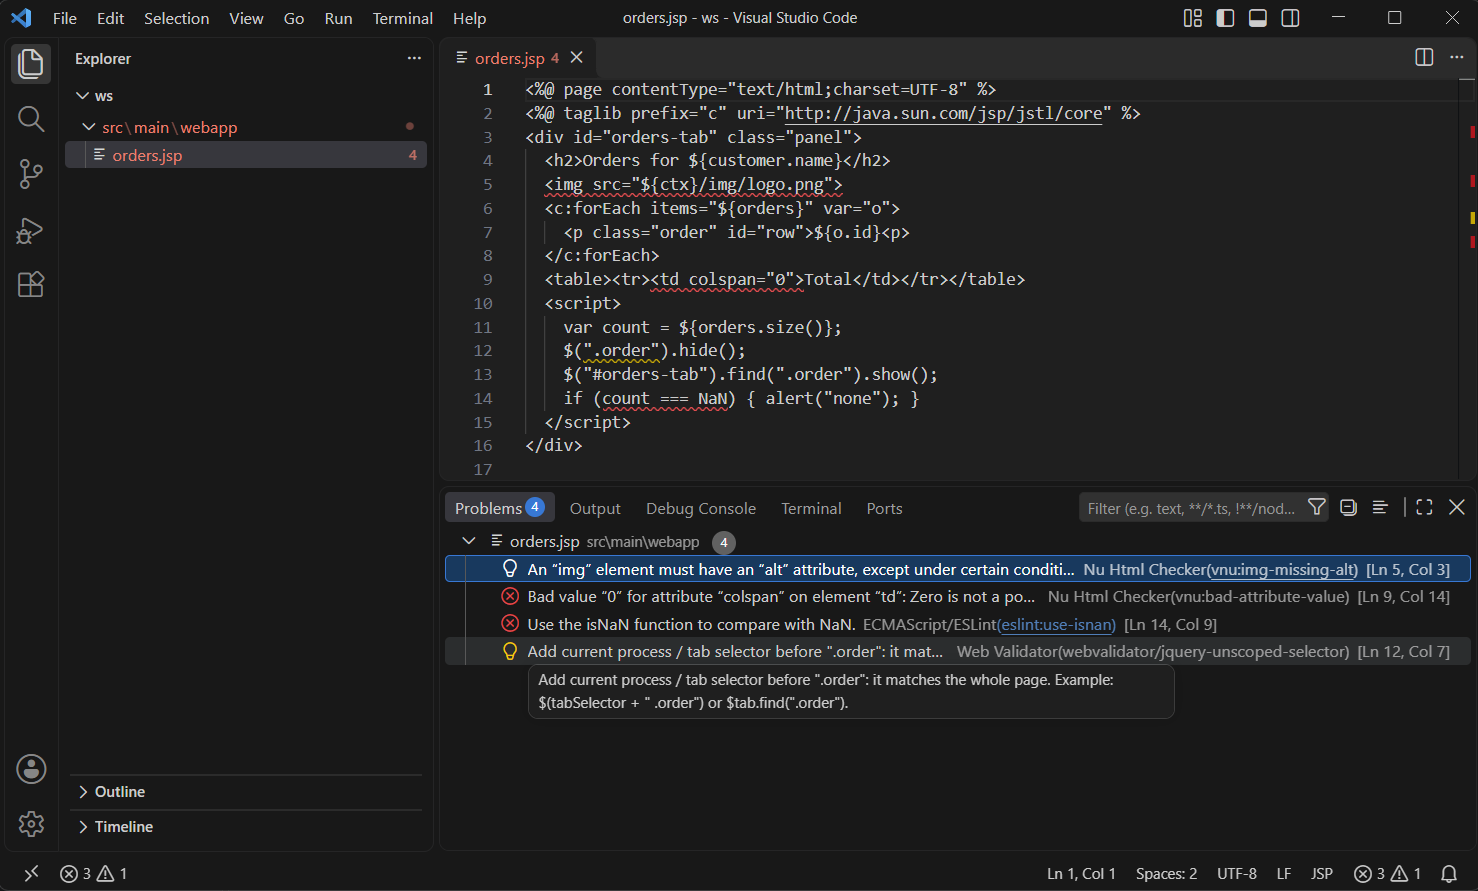
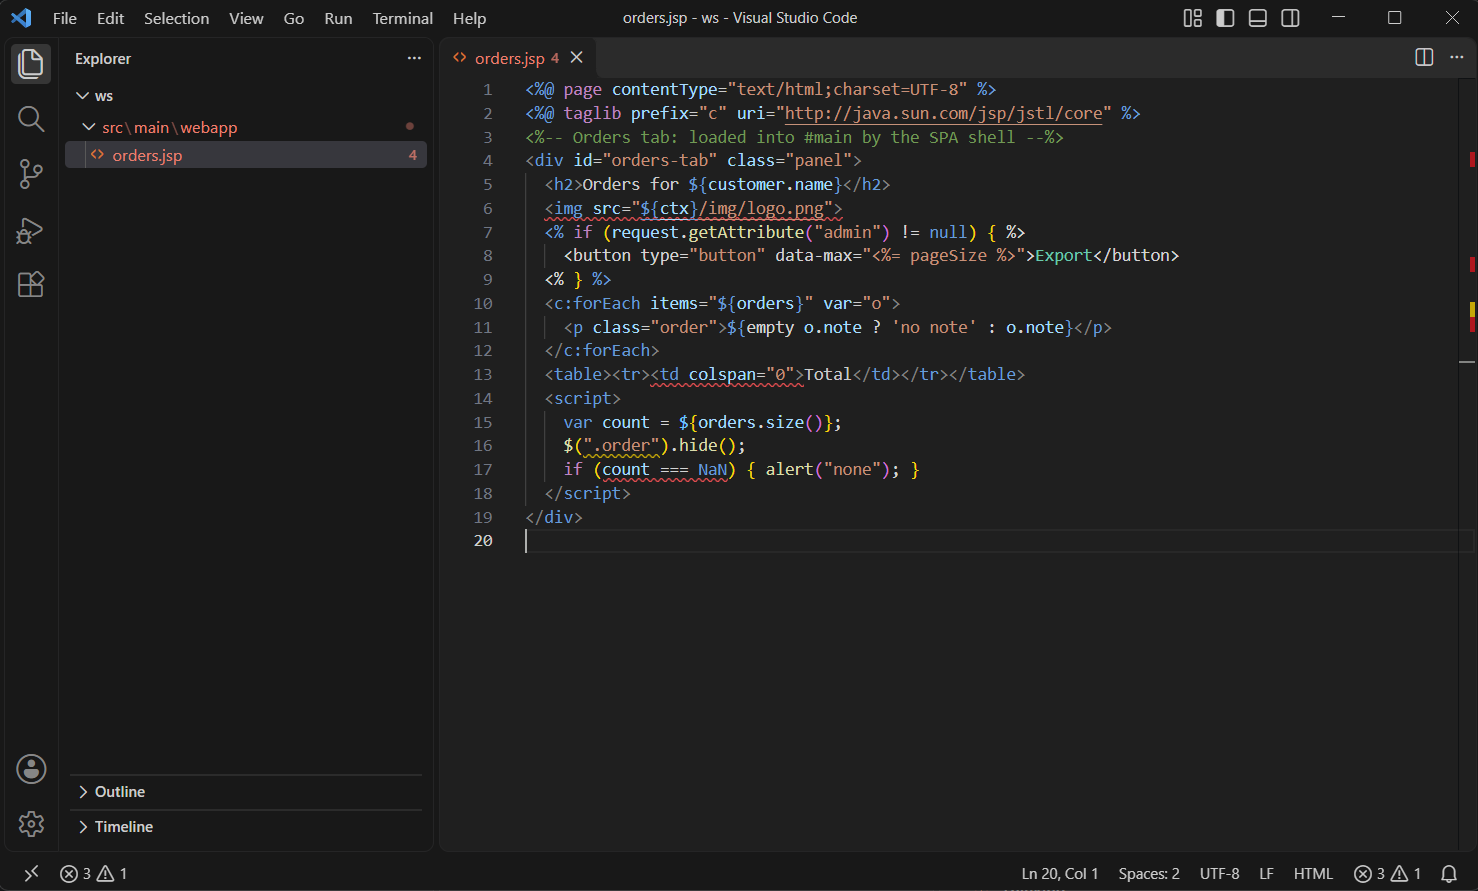
0.1.1: keep JSP files as HTML and add JSP colouring
0.1.0 registered .jsp/.jspf/.tag as a jsp language with no grammar, which
turned JSP files into plain text and switched off VS Code's HTML features.

- .jsp/.jspf stay in the built-in html language; .tag is no longer claimed
- Injection grammars colour JSP directives, comments, scriptlets/expressions
  (as Java) and ${...}/#{...} EL on top of the HTML colours
- webValidator.languages still treats JSP files as jsp
- Tests for the grammars (unit) and real tokenization (integration)
- README: JSP colours, html.validate.scripts tip, new screenshot

diff --git a/test/integration/suite/jspColors.test.ts b/test/integration/suite/jspColors.test.ts
@@ -1,0 +1,104 @@
+import * as assert from "node:assert/strict";
+import * as fs from "node:fs";
+import * as path from "node:path";
+import * as vscode from "vscode";
+
+/** A token as returned by VS Code's internal `_workbench.captureSyntaxTokens` command. */
+interface Token {
+  c: string;
+  t: string;
+}
+
+const root = (): string => {
+  const folder = vscode.workspace.workspaceFolders?.[0];
+  assert.ok(folder, "fixture workspace must be open");
+  return folder.uri.fsPath;
+};
+
+const created: string[] = [];
+function write(name: string, text: string): vscode.Uri {
+  const file = path.join(root(), name);
+  fs.writeFileSync(file, text);
+  created.push(file);
+  return vscode.Uri.file(file);
+}
+
+async function tokens(uri: vscode.Uri): Promise<Token[]> {
+  const doc = await vscode.workspace.openTextDocument(uri);
+  await vscode.window.showTextDocument(doc);
+  const result = await vscode.commands.executeCommand<Token[]>("_workbench.captureSyntaxTokens", uri);
+  assert.ok(Array.isArray(result) && result.length > 0, "syntax tokens were captured");
+  return result;
+}
+
+/** Scopes of the first token whose text is exactly `text`. */
+function scopesOf(ts: Token[], text: string): string {
+  const t = ts.find((x) => x.c === text);
+  assert.ok(t, `token "${text}" exists; tokens: ${JSON.stringify(ts.map((x) => x.c))}`);
+  return t.t;
+}
+
+describe("JSP colouring", () => {
+  after(async () => {
+    await vscode.commands.executeCommand("workbench.action.closeAllEditors");
+    for (const f of created) fs.rmSync(f, { force: true });
+  });
+
+  it("opens .jsp and .jspf files as HTML", async () => {
+    for (const name of ["colors-a.jsp", "colors-b.jspf"]) {
+      const doc = await vscode.workspace.openTextDocument(write(name, "<p>hi</p>\n"));
+      assert.equal(doc.languageId, "html", name);
+    }
+  });
+
+  it("colours JSP tags, Java inside them, EL, and keeps HTML colours", async () => {
+    const uri = write(
+      "colors-c.jsp",
+      [
+        '<%@ page contentType="text/html" %>',
+        "<%-- hidden note --%>",
+        '<input value="<%= user.getName() %>" title="${order.total}">',
+        "<% if (admin) { %><b>Admin</b><% } %>",
+        "<p>${empty items ? 'none' : items}</p>",
+        "",
+      ].join("\n"),
+    );
+    const ts = await tokens(uri);
+
+    assert.match(scopesOf(ts, "<%@"), /punctuation\.section\.embedded\.begin\.jsp/);
+    assert.match(scopesOf(ts, "page"), /keyword\.control\.directive\.jsp/);
+    assert.match(scopesOf(ts, "contentType"), /entity\.other\.attribute-name\.jsp/);
+    assert.match(scopesOf(ts, " hidden note "), /comment\.block\.jsp/);
+    assert.match(scopesOf(ts, "<%="), /punctuation\.section\.embedded\.begin\.jsp/);
+    assert.match(scopesOf(ts, "if"), /source\.java/);
+    assert.match(scopesOf(ts, "if"), /keyword/);
+    assert.match(scopesOf(ts, "${"), /punctuation\.definition\.template-expression\.begin\.el/);
+    assert.match(scopesOf(ts, "empty"), /keyword\.operator\.word\.el/);
+    assert.match(scopesOf(ts, "total"), /variable\.other\.el/);
+    // Ordinary HTML is still coloured by the built-in HTML grammar.
+    assert.match(scopesOf(ts, "input"), /entity\.name\.tag/);
+    assert.match(scopesOf(ts, "Admin"), /text\.html/);
+  });
+
+  it("leaves JavaScript template literals in <script> alone", async () => {
+    const uri = write("colors-d.html", "<script>\nconst s = `Hi ${name}`;\n</script>\n");
+    const ts = await tokens(uri);
+    for (const t of ts) assert.doesNotMatch(t.t, /\.el\b|\.jsp\b/, `token "${t.c}" has no JSP scopes`);
+  });
+
+  it("validates a .jsp file as JSP only while 'jsp' is in webValidator.languages", async () => {
+    const config = vscode.workspace.getConfiguration("webValidator");
+    const uri = write("colors-e.jsp", '<%@ page contentType="text/html" %>\n<img src="${img}">\n');
+    const doc = await vscode.workspace.openTextDocument(uri);
+    try {
+      await config.update("languages", ["html", "javascript"], vscode.ConfigurationTarget.Global);
+      const api = vscode.extensions.all.find((e) => e.packageJSON.name === "w3c-validator-plus")!.exports as {
+        service: { validate(d: vscode.TextDocument, trigger: string): Promise<{ skipped?: string }> };
+      };
+      const outcome = await api.service.validate(doc, "manual");
+      assert.match(outcome.skipped ?? "", /Language 'jsp' is not in webValidator\.languages/);
+    } finally {
+      await config.update("languages", undefined, vscode.ConfigurationTarget.Global);
+    }
+  });
+});

diff --git a/test/unit/syntaxes.test.ts b/test/unit/syntaxes.test.ts
@@ -1,0 +1,59 @@
+import { existsSync, readFileSync } from "node:fs";
+import { join } from "node:path";
+import { describe, expect, it } from "vitest";
+
+const root = join(__dirname, "..", "..");
+const pkg = JSON.parse(readFileSync(join(root, "package.json"), "utf8")) as {
+  contributes: { grammars: { scopeName: string; path: string; injectTo?: string[] }[]; languages: { id: string; extensions?: string[] }[] };
+};
+
+function regexesIn(node: unknown, out: string[] = []): string[] {
+  if (Array.isArray(node)) node.forEach((n) => regexesIn(n, out));
+  else if (node && typeof node === "object") {
+    for (const [k, v] of Object.entries(node)) {
+      if ((k === "match" || k === "begin" || k === "end") && typeof v === "string") out.push(v);
+      else regexesIn(v, out);
+    }
+  }
+  return out;
+}
+
+describe("JSP grammars", () => {
+  it("does not claim .jsp as its own language (VS Code's HTML support keeps it)", () => {
+    const claimed = pkg.contributes.languages.flatMap((l) => l.extensions ?? []);
+    expect(claimed).not.toContain(".jsp");
+    expect(claimed).not.toContain(".tag");
+    expect(pkg.contributes.languages.find((l) => l.id === "jsp")).toBeUndefined();
+  });
+
+  for (const g of pkg.contributes.grammars) {
+    describe(g.path, () => {
+      const file = join(root, g.path);
+      it("exists and matches package.json", () => {
+        expect(existsSync(file)).toBe(true);
+        const grammar = JSON.parse(readFileSync(file, "utf8")) as { scopeName: string; injectionSelector?: string };
+        expect(grammar.scopeName).toBe(g.scopeName);
+        expect(grammar.injectionSelector).toMatch(/^L:text\.html\.derivative\b/);
+        expect(g.injectTo).toEqual(["text.html.derivative"]);
+      });
+
+      it("has regular expressions that compile", () => {
+        const grammar = JSON.parse(readFileSync(file, "utf8")) as unknown;
+        const res = regexesIn(grammar);
+        expect(res.length).toBeGreaterThan(3);
+        for (const re of res) expect(() => new RegExp(re), re).not.toThrow();
+      });
+    });
+  }
+
+  it("matches EL and JSP tags as intended", () => {
+    const el = JSON.parse(readFileSync(join(root, "syntaxes/jsp-el.injection.tmLanguage.json"), "utf8"));
+    const begin = new RegExp(el.repository.el.begin);
+    expect(begin.test("${order.total}")).toBe(true);
+    expect(begin.test("#{bean.value}")).toBe(true);
+    expect(begin.test("\\${literal}")).toBe(false);
+    const tags = JSON.parse(readFileSync(join(root, "syntaxes/jsp-tags.injection.tmLanguage.json"), "utf8"));
+    const m = new RegExp(tags.repository.directive.begin).exec('<%@ taglib prefix="c" %>');
+    expect(m?.[2]).toBe("taglib");
+  });
+});

diff --git a/src/validationService.ts b/src/validationService.ts
@@ -31,6 +31,14 @@ export function languageForPath(fsPath: string): string | undefined {
   return undefined;
 }
 
+/**
+ * Language id as used by `webValidator.languages`: JSP files count as "jsp" even though
+ * VS Code opens them with the built-in "html" language.
+ */
+export function settingsLanguage(languageId: string, uri: string): string {
+  return languageId !== "javascript" && isJspDocument(languageId, uri) ? "jsp" : languageId;
+}
+
 export interface ValidationTarget {
   uri: vscode.Uri;
   languageId: string;
@@ -93,7 +101,7 @@ export class ValidationService implements vscode.Disposable {
 
   /** Whether this document is one we would validate at all (language + scheme). */
   isRelevant(doc: vscode.TextDocument, settings: Settings = readSettings(doc.uri)): boolean {
-    return settings.enable && SCHEMES.has(doc.uri.scheme) && settings.languages.includes(doc.languageId);
+    return settings.enable && SCHEMES.has(doc.uri.scheme) && settings.languages.includes(settingsLanguage(doc.languageId, doc.uri.toString()));
   }
 
   revalidateOpenDocuments(): void {
@@ -169,8 +177,9 @@ export class ValidationService implements vscode.Disposable {
 
     if (!settings.enable) return { ran: [], skipped: "Validation is disabled (webValidator.enable)." };
     if (!internal && !SCHEMES.has(uri.scheme)) return { ran: [], skipped: `Documents with the '${uri.scheme}' scheme are not validated.` };
-    if (!internal && !settings.languages.includes(target.languageId)) {
-      return { ran: [], skipped: `Language '${target.languageId}' is not in webValidator.languages.` };
+    const language = settingsLanguage(target.languageId, key);
+    if (!internal && !settings.languages.includes(language)) {
+      return { ran: [], skipped: `Language '${language}' is not in webValidator.languages.` };
     }
     const sizeKb = utf8ByteLength(target.text) / 1024;
     if (sizeKb > settings.maxFileSizeKb) {

diff --git a/test/integration/suite/extension.test.ts b/test/integration/suite/extension.test.ts
@@ -134,9 +134,9 @@ describe("Web Standards Validator", () => {
         await config().update("jsp.documentStructure", undefined, vscode.ConfigurationTarget.Global);
       });
 
-      it("opens .jsp files with the jsp language and reports HTML errors at JSP positions", async () => {
+      it("keeps .jsp files in the html language and reports HTML errors at JSP positions", async () => {
         const doc = await vscode.workspace.openTextDocument(jspUri());
-        assert.equal(doc.languageId, "jsp");
+        assert.equal(doc.languageId, "html");
         await vscode.window.showTextDocument(doc);
         const ds = await waitForDiagnostics(doc.uri, (d) => d.some((x) => codeOf(x) === "vnu:img-missing-alt"));
         const pos = (id: string) => ds.filter((d) => codeOf(d) === id).map((d) => `${d.range.start.line + 1}:${d.range.start.character + 1}`);

diff --git a/README.md b/README.md
@@ -112,8 +112,22 @@ file. The quick fixes **Disable … for this line / this file** insert these com
 
 ## JSP files
 
-`.jsp`, `.jspf` and `.tag` files are validated even if you associate them with the
-`html` language. Before validation, JSP-only constructs are replaced with filler of the
+`.jsp` and `.jspf` files open with VS Code's built-in HTML support, so HTML colours,
+completions and Emmet keep working. The extension adds colours for JSP on top: directives,
+`<%-- --%>` comments, scriptlets and expressions (coloured as Java), and `${…}` / `#{…}`
+expressions. `.tag` files are validated by **Validate Workspace**; to validate them as you
+edit, associate them with HTML (`"files.associations": { "*.tag": "html" }`).
+
+VS Code's built-in HTML support also checks `<script>` blocks, but it doesn't understand JSP,
+so `var n = ${count};` shows errors such as "',' expected" with the source `javascript`.
+Those come from VS Code, not from this extension. This extension already checks scripts
+with ESLint and understands JSP, so you can turn VS Code's check off:
+
+```jsonc
+"html.validate.scripts": false
+```
+
+Before validation, JSP-only constructs are replaced with filler of the
 same length, so every problem is reported at its exact line and column in your file:
 
 | Construct | Replaced by |

diff --git a/CHANGELOG.md b/CHANGELOG.md
@@ -1,5 +1,20 @@
 # Changelog
 
+## 0.1.1 (2026-11-12)
+
+- **JSP files keep their colours.** 0.1.0 registered `.jsp`, `.jspf` and `.tag` as a separate
+  "JSP" language without colouring rules, so installing it turned JSP files into plain text and
+  switched off VS Code's HTML features (completions, Emmet, tag closing) for them. JSP files now
+  stay in VS Code's HTML language and are still validated as JSP.
+- **JSP colouring**: on top of the HTML colours, `<%@ … %>` directives, `<%-- … --%>` comments,
+  `<% … %>`, `<%= … %>` and `<%! … %>` (coloured as Java) and `${…}` / `#{…}` expressions are
+  highlighted.
+- `.jspf` files open as HTML. `.tag` files are no longer claimed, to avoid clashing with other
+  tools that use that extension; associate them with `html` to validate them on open (Validate
+  Workspace still checks them).
+- `webValidator.languages` still treats JSP files as `jsp`, so removing `jsp` from it turns off
+  JSP validation as before.
+
 ## 0.1.0 (2026-11-08)
 
 First release.
